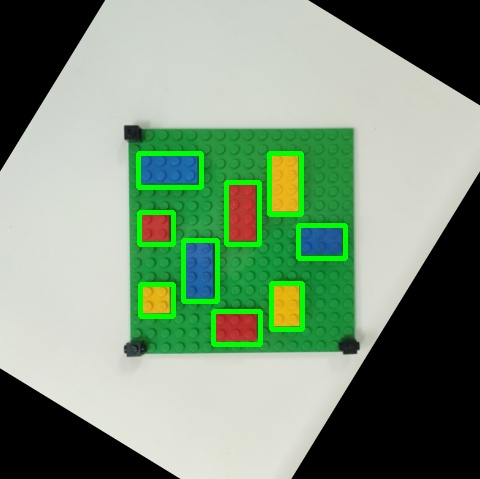
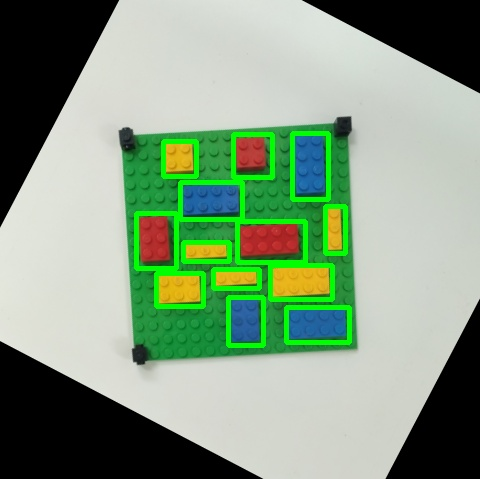
xd

diff --git a/components_detector.py b/components_detector.py
@@ -140,9 +140,9 @@ def Proceso(img_ubicacion, calibrar):
         (cX, cY) = centroids[i]
         # ensure the width, height, and area are all neither too small
         # nor too big
-        keepWidth = w > 10 and w < 30
-        keepHeight = h > 10 and h < 30
-        keepArea = area > 100 and area < 700
+        keepWidth = w > 8 and w < 30
+        keepHeight = h > 8 and h < 30
+        keepArea = area > 80 and area < 700
         # ensure the connected component we are examining passes all
         # three tests
         if all((keepWidth, keepHeight, keepArea)):
@@ -239,7 +239,7 @@ def Proceso(img_ubicacion, calibrar):
     # Crear una máscara que filtre los píxeles dentro del rango de colores definido
     mask = cv2.inRange(hsv_image, lower_red, upper_red)
     # Aplicar filtro de dilatación a la máscara
-    kernel = np.ones((5, 5), np.uint8)
+    kernel = np.ones((10, 10), np.uint8)
     dilated_mask = cv2.dilate(mask, kernel, iterations=1)
     # Mostrar la imagen original y la imagen segmentada
     cv2.imshow('Imagen Segmentada ROJO', dilated_mask)
@@ -251,9 +251,6 @@ def Proceso(img_ubicacion, calibrar):
     cv2.imshow('Imagen Segmentada Roja', apertura)
     cv2.waitKey(0)
     cv2.destroyAllWindows()
-    
-    
-    
     
     # Hacemos un threshold
     (T, threshImg) = cv2.threshold(apertura, 0, 255, cv2.THRESH_BINARY_INV | cv2.THRESH_OTSU)
